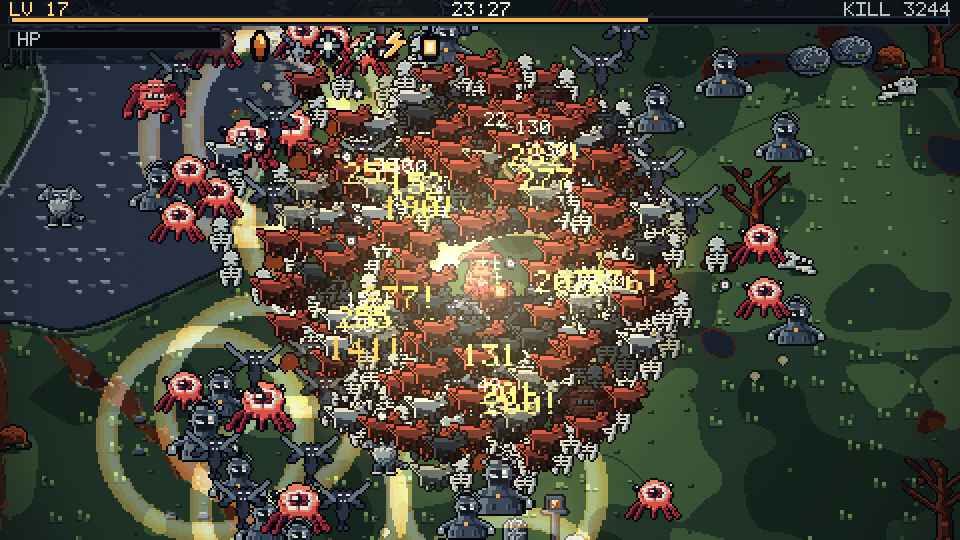
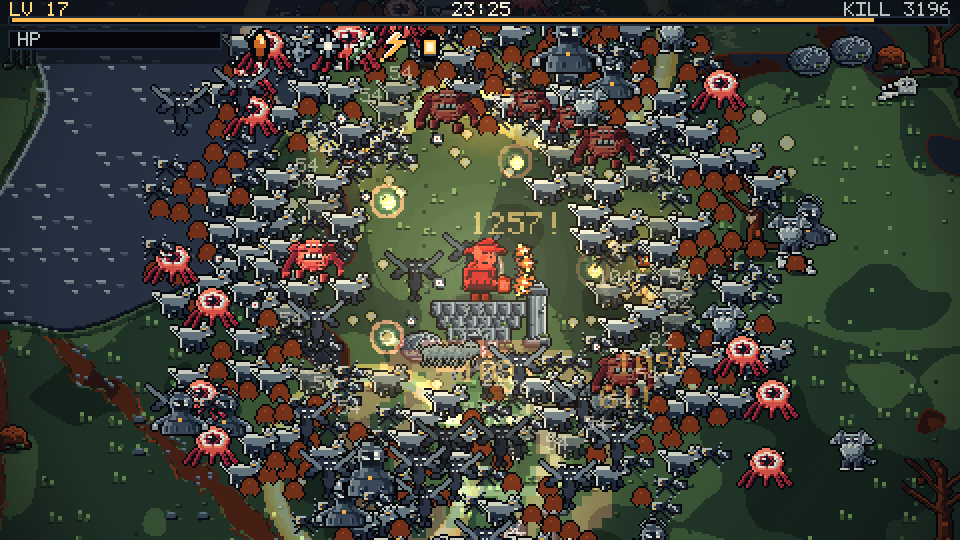
M6-final #73: Endgame-Daempfung wirksam – additive Glows im Minimal-LOD auf NORMAL + Alpha 0,5, Laternenlicht und Damage-Numbers gedaempft; Near-White im AoE-Crop -59%, gleicher Frame

diff --git a/src/systems/FxSystem.ts b/src/systems/FxSystem.ts
@@ -22,6 +22,7 @@ interface FxRuntime {
   frames: string[];
   frameRate: number;
   active: boolean;
+  additive: boolean;
 }
 
 export interface FxOptions {
@@ -81,6 +82,7 @@ export class FxSystem {
     for (const fx of this.active) {
       fx.alphaFrom = Math.max(0, Math.min(1, fx.alphaFrom * ratio));
       fx.sprite.setAlpha(Math.max(0, Math.min(1, fx.sprite.alpha * ratio)));
+      fx.sprite.setBlendMode(fx.additive && next >= 0.7 ? Phaser.BlendModes.ADD : Phaser.BlendModes.NORMAL);
     }
   }
 
@@ -100,7 +102,11 @@ export class FxSystem {
     fx.scaleFrom = opts.scaleFrom ?? 1;
     fx.scaleTo = opts.scaleTo ?? fx.scaleFrom;
     fx.aspect = opts.aspect ?? 1;
-    fx.alphaFrom = (opts.alphaFrom ?? 0.9) * this.alphaScale;
+    // Additive Glows stacken auf 255: im Endgame deshalb quadratisch dämpfen,
+    // sonst bleibt der weiße Kern trotz Alpha-Faktor stehen.
+    const additive = opts.additive !== false;
+    const extra = additive ? this.alphaScale : 1;
+    fx.alphaFrom = (opts.alphaFrom ?? 0.9) * this.alphaScale * extra;
     fx.alphaTo = opts.alphaTo ?? 0;
     fx.rotation = opts.rotation ?? 0;
     fx.spin = opts.spin ?? 0;
@@ -114,7 +120,10 @@ export class FxSystem {
     sprite.setAlpha(fx.alphaFrom);
     sprite.setRotation(fx.rotation);
     sprite.setDepth(opts.depth ?? DEPTH.fxLow);
-    sprite.setBlendMode(opts.additive === false ? Phaser.BlendModes.NORMAL : Phaser.BlendModes.ADD);
+    fx.additive = opts.additive !== false;
+    // Minimal-LOD: grosse additive Flächen auf NORMAL legen, sonst bleibt der
+    // Kern trotz Alpha-Dämpfung weiß (additive Sprites stacken auf 255).
+    sprite.setBlendMode(fx.additive && this.alphaScale >= 0.7 ? Phaser.BlendModes.ADD : Phaser.BlendModes.NORMAL);
     if (opts.tint !== undefined) sprite.setTint(opts.tint);
     else sprite.clearTint();
     sprite.setVisible(true).setActive(true);
@@ -295,7 +304,7 @@ export class FxSystem {
     return {
       sprite, x: 0, y: 0, vx: 0, vy: 0, life: 0, maxLife: 1,
       scaleFrom: 1, scaleTo: 1, aspect: 1, alphaFrom: 1, alphaTo: 0, rotation: 0, spin: 0,
-      frames: ["fx_spark"], frameRate: 18, active: false,
+      frames: ["fx_spark"], frameRate: 18, active: false, additive: true,
     };
   }
 
@@ -340,6 +349,7 @@ export class ParticleSystem {
     for (const p of this.active) {
       p.alphaFrom = Math.max(0, Math.min(1, p.alphaFrom * ratio));
       p.sprite.setAlpha(Math.max(0, Math.min(1, p.sprite.alpha * ratio)));
+      p.sprite.setBlendMode(p.additive && next >= 0.7 ? Phaser.BlendModes.ADD : Phaser.BlendModes.NORMAL);
     }
   }
 
@@ -359,7 +369,9 @@ export class ParticleSystem {
     p.scaleFrom = opts.scaleFrom ?? 1;
     p.scaleTo = opts.scaleTo ?? 0.2;
     p.aspect = opts.aspect ?? 1;
-    p.alphaFrom = (opts.alphaFrom ?? 0.95) * this.alphaScale;
+    const additive = opts.additive !== false;
+    const extra = additive ? this.alphaScale : 1;
+    p.alphaFrom = (opts.alphaFrom ?? 0.95) * this.alphaScale * extra;
     p.alphaTo = opts.alphaTo ?? 0;
     p.rotation = opts.rotation ?? 0;
     p.spin = opts.spin ?? 0;
@@ -373,7 +385,8 @@ export class ParticleSystem {
     s.setAlpha(p.alphaFrom);
     s.setRotation(p.rotation);
     s.setDepth(opts.depth ?? DEPTH.fxLow);
-    s.setBlendMode(opts.additive === false ? Phaser.BlendModes.NORMAL : Phaser.BlendModes.ADD);
+    p.additive = opts.additive !== false;
+    s.setBlendMode(p.additive && this.alphaScale >= 0.7 ? Phaser.BlendModes.ADD : Phaser.BlendModes.NORMAL);
     if (opts.tint !== undefined) s.setTint(opts.tint);
     else s.clearTint();
     s.setVisible(true).setActive(true);
@@ -464,7 +477,7 @@ export class ParticleSystem {
     return {
       sprite, x: 0, y: 0, vx: 0, vy: 0, life: 0, maxLife: 1,
       scaleFrom: 1, scaleTo: 1, aspect: 1, alphaFrom: 1, alphaTo: 0, rotation: 0, spin: 0,
-      frames: ["fx_spark"], frameRate: 18, active: false,
+      frames: ["fx_spark"], frameRate: 18, active: false, additive: true,
     };
   }
 

diff --git a/src/systems/DamageNumbers.ts b/src/systems/DamageNumbers.ts
@@ -30,6 +30,8 @@ export class DamageNumberSystem {
   private clock = 0;
   private lod: LodState | null = null;
   private enabled = true;
+  /** Endgame-Dämpfung der Zahlen (1 = voll); Hauptteil der hellen Fläche. */
+  private dim = 1;
 
   constructor(scene: Phaser.Scene) {
     this.scene = scene;
@@ -41,6 +43,18 @@ export class DamageNumberSystem {
 
   setLod(lod: LodState): void {
     this.lod = lod;
+    this.setDim(lod.level === "minimal" ? 0.55 : lod.level === "reduced" ? 0.8 : 1);
+  }
+
+  /** Endgame-Dim sofort anwenden (Debug-Vorher/Nachher im gleichen Frame). */
+  setDim(value: number): void {
+    const next = Math.max(0.2, Math.min(1, value));
+    if (next === this.dim) return;
+    const ratio = next / this.dim;
+    this.dim = next;
+    for (const v of this.views) {
+      if (v.active) v.text.setAlpha(Math.max(0, Math.min(1, v.text.alpha * ratio)));
+    }
   }
 
   /** Option "Damage-Numbers": aus = keine neuen Zahlen, la sofort ausblenden. */
@@ -80,7 +94,7 @@ export class DamageNumberSystem {
       // Alle belegt: ältesten wiederverwenden (kein Draw-Call-Wachstum).
       view = this.views.reduce((a, b) => (a.life < b.life ? a : b));
     }
-    const limit = aggregate ? 10 : this.maxViews;
+    const limit = aggregate ? (this.lod?.level === "minimal" ? 6 : 10) : this.maxViews;
     const activeCount = this.views.filter((v) => v.active).length;
     if (!view.active && activeCount >= limit) return;
     view.active = true;
@@ -112,7 +126,7 @@ export class DamageNumberSystem {
       const p = 1 - v.life / v.maxLife;
       const y = v.y - p * 18;
       v.text.setPosition(Math.round(v.x), Math.round(y));
-      v.text.setAlpha(Math.max(0, 1 - p * p));
+      v.text.setAlpha(Math.max(0, 1 - p * p) * this.dim);
       if (camera) {
         const sx = v.x - camera.scrollX;
         const sy = y - camera.scrollY;

diff --git a/src/scenes/Run.ts b/src/scenes/Run.ts
@@ -448,6 +448,7 @@ export class Run extends Phaser.Scene {
   setFxDamping(enabled: boolean): void {
     this.fxDampingEnabled = enabled;
     this.combat?.setFxDamping(enabled);
+    this.light?.setAlpha(0.85 * (enabled ? fxAlphaFor(this.lod.level) : 1));
   }
 
   /** M5-LOD: Effekt-Caps/Trails/Damage-Summen an Gegnerlast anpassen. */
@@ -458,6 +459,9 @@ export class Run extends Phaser.Scene {
       this.lod = lod;
       this.combat?.setLod(lod);
       this.pickups?.setCap(lod.gemCap);
+      // Auch die additive Laternen-Lichtfläche dämpfen: sie liegt über den
+      // Gegnern und ist im Endgame ein Hauptteil der Überstrahlung.
+      this.light?.setAlpha(0.85 * (this.fxDampingEnabled ? fxAlphaFor(lod.level) : 1));
     }
   }
 

diff --git a/src/logic/lod.ts b/src/logic/lod.ts
@@ -15,7 +15,7 @@ export interface LodState {
 
 /** M6: Effekt-Alpha je LOD-Stufe (Endgame lesbar halten). */
 export function fxAlphaFor(level: LodState["level"]): number {
-  return level === "minimal" ? 0.62 : level === "reduced" ? 0.8 : 1;
+  return level === "minimal" ? 0.5 : level === "reduced" ? 0.72 : 1;
 }
 
 export const LOD_THRESHOLD = 400;

diff --git a/src/systems/CombatSystem.ts b/src/systems/CombatSystem.ts
@@ -165,6 +165,9 @@ export class CombatSystem {
   setFxDamping(enabled: boolean): void {
     this.fxDamping = enabled;
     this.applyFxDamping();
+    this.damageNumbers.setDim(enabled
+      ? (this.lod.level === "minimal" ? 0.55 : this.lod.level === "reduced" ? 0.8 : 1)
+      : 1);
   }
 
   update(ctx: CombatContext): void {
